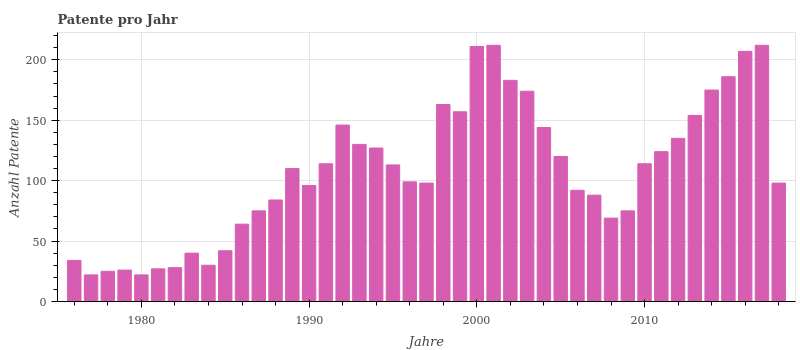
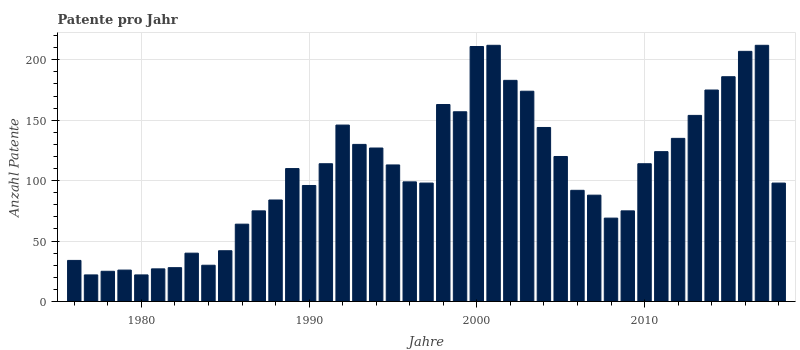
Updates.

diff --git a/patents_word_cloud.py b/patents_word_cloud.py
@@ -1,9 +1,8 @@
-# WordCloud
 import pandas as pd
 from nltk.corpus import stopwords
 from wordcloud import WordCloud
 
-patents = pd.read_csv('data/patents_title_abstract.csv')
+patents = pd.read_csv('./data/patents_title_abstract.csv')
 
 stop = set(stopwords.words('english'))
 
@@ -13,13 +12,25 @@ wordcloud = WordCloud(
     background_color='white',
     max_words=500,
     stopwords=stop,
-    contour_width=3,
     width=1600,
-    height=700
+    height=700,
+    font_path='./submission/themes/fonts/PublicSans-normal.ttf',
+    colormap='cividis'
 )
 
-# generate word cloud
-wordcloud.generate(title_joined)
+# For reuse of the word frequencies
+words = wordcloud.process_text(title_joined)
+
+# Generate word cloud
+wordcloud.generate_from_frequencies(words)
 
 # store to file
 wordcloud.to_file('submission/images/title_wordcloud.png')
+
+# Generate csv file containing every word + count
+words_df = pd.DataFrame(sorted([(v, k) for (k, v) in words.items()],
+                        reverse=True)[:20])
+
+words_df.columns = ['Count', 'Word']
+words_df = words_df[['Word', 'Count']]
+words_df.to_csv('submission/data/word_frequencies.csv', index=False)

diff --git a/patents_by_orgtype_year.py b/patents_by_orgtype_year.py
@@ -3,12 +3,12 @@ from bokeh.plotting import figure, show, output_file
 from bokeh.core.properties import value
 from bokeh.io import export_png
 import pandas as pd
+from bokeh.palettes import Cividis5
 
 data = pd.read_csv('data/top5_orgs_by_year_count.csv')
 
 orgs = data['organization'].unique()
 years = data['year'].unique()
-colors = ['#D65DB1', '#FF6F91', '#FF9671', '#FFC75F', '#ec9c32']
 
 data = data.pivot(
     index='year',
@@ -16,7 +16,6 @@ data = data.pivot(
     values='count'
 )
 data = data.fillna(0)
-
 
 p = figure(
     width=800,
@@ -39,7 +38,7 @@ p.vbar_stack(
     x='year',
     width=.8,
     source=source_data,
-    color=colors,
+    color=Cividis5,
     legend=['NASA', 'Navy', 'Boeing', 'Lockheed Martin', value('Thales')]
 )
 

diff --git a/patents_by_year.py b/patents_by_year.py
@@ -18,7 +18,7 @@ p.vbar(
     width=0.8,
     top='count',
     source=patents,
-    color='#D65DB1',
+    color='#00204C',
 )
 
 p.toolbar_location = None
